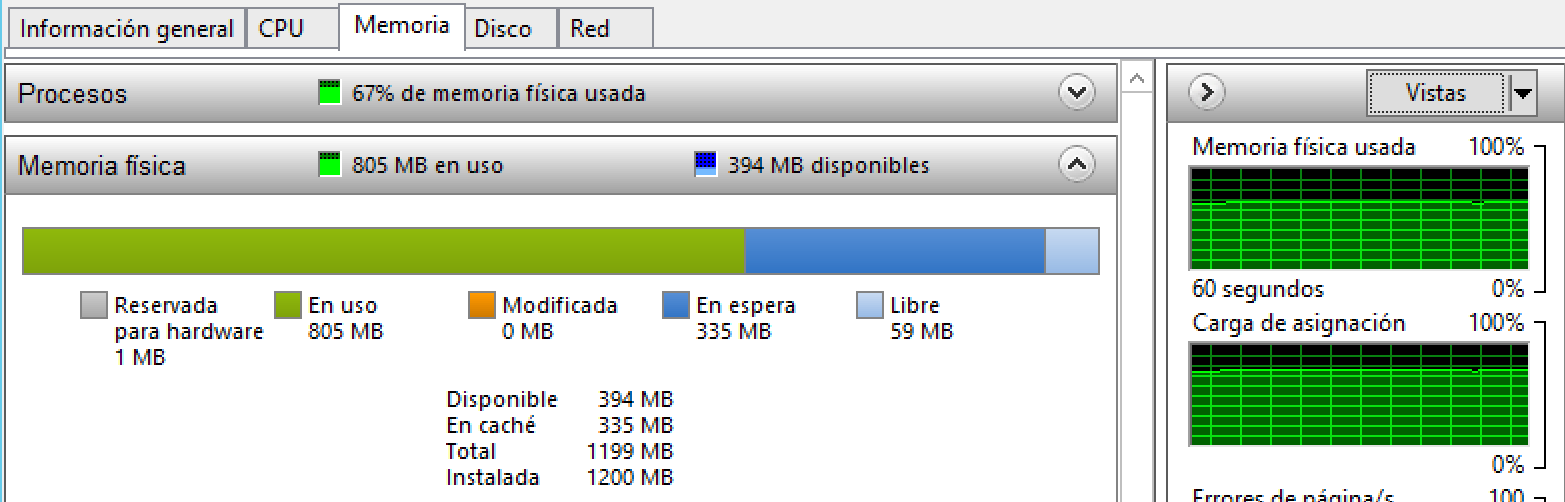
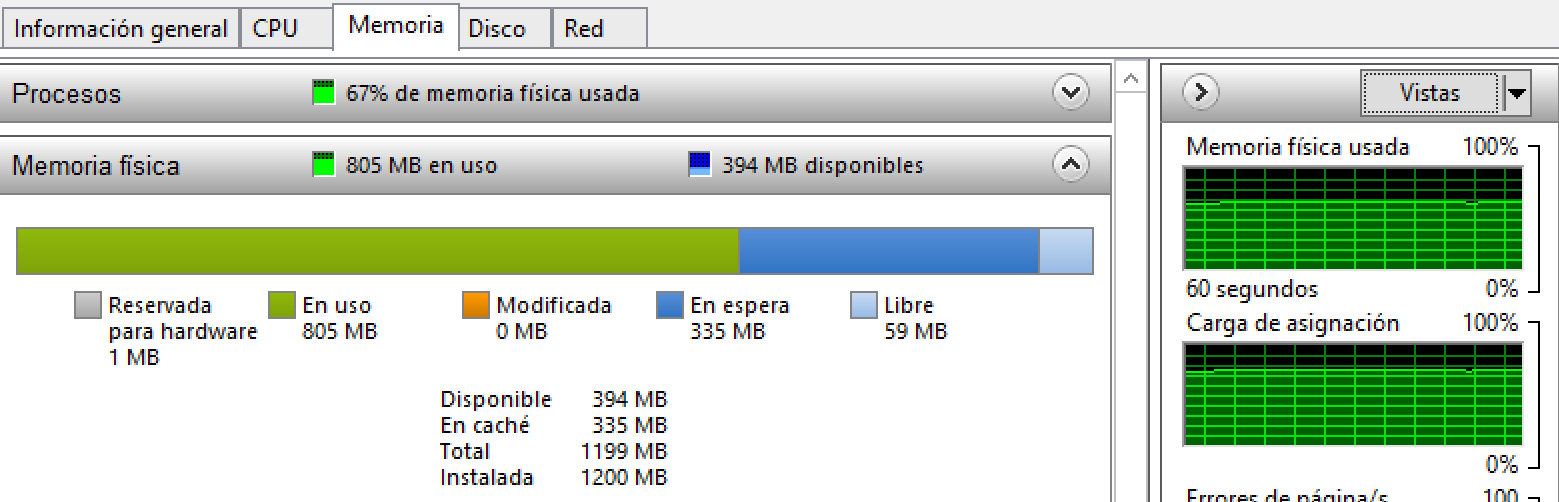
Optimize memory usage in laboratory design; updated RAM requirements and revised related documentation.

diff --git a/Cuerpo/05_diseno_del_laboratorio.tex b/Cuerpo/05_diseno_del_laboratorio.tex
@@ -209,11 +209,11 @@ Tras varias iteraciones se comprobó que era posible reducir significativamente 
         \rowcolor{blue!10}
         \textbf{Sistema} & \textbf{Memoria RAM}  \\
         \hline
-        Ubuntu Server 22.04 & 1.5 GB  \\
+        Ubuntu Server 22.04 & 1.2 GB  \\
         \hline
         DC01 (Windows Server 2012) & 1.2 GB  \\
         \hline
-        DEV01 (Windows 7) & 1.5 GB  \\
+        DEV01 (Windows 7) & 1 GB  \\
         \hline
     \end{tabular}
 
@@ -221,7 +221,7 @@ Tras varias iteraciones se comprobó que era posible reducir significativamente 
     \label{tab:optimizacion_memoria}
 \end{table}
 
-Estas pruebas permitieron reducir el consumo total de memoria de la infraestructura hasta aproximadamente 4.2 GB, lo que facilita la ejecución simultánea de todas las máquinas virtuales incluso en equipos con recursos limitados.
+Estas pruebas permitieron reducir el consumo total de memoria de la infraestructura hasta aproximadamente 3.4 GB, lo que facilita la ejecución simultánea de todas las máquinas virtuales incluso en equipos con recursos limitados.
 
 La reducción de recursos no afecta al comportamiento del laboratorio ni a la reproducibilidad de las cadenas de ataque implementadas, manteniendo el equilibrio entre realismo y accesibilidad que se persigue en este proyecto.
 
@@ -258,11 +258,11 @@ La reducción de recursos no afecta al comportamiento del laboratorio ni a la re
 
 Las capturas mostradas en la Figura~\ref{fig:optimizacion_memoria_lab} evidencian el consumo real de memoria de las tres máquinas virtuales tras completar el proceso de optimización. Los resultados obtenidos demuestran que tanto Windows Server 2012 como Windows 7 y Ubuntu Server mantienen una cantidad suficiente de memoria disponible para ejecutar los servicios necesarios del laboratorio.
 
-En el caso del controlador de dominio DC01, con únicamente 1.2 GB de memoria asignada, el sistema conserva aproximadamente 400 MB libres una vez iniciados Active Directory y el servicio DNS. De forma similar, la estación de trabajo DEV01 dispone de cerca de 900 MB disponibles con una asignación total de 1.5 GB, mientras que el servidor Ubuntu mantiene alrededor de 500 MB de memoria disponible tras el despliegue de Docker y del portal vulnerable.
+En el caso del controlador de dominio DC01, con únicamente 1.2 GB de memoria asignada, el sistema conserva aproximadamente 400 MB libres una vez iniciados Active Directory y el servicio DNS. De forma similar, la estación de trabajo DEV01 dispone de cerca de 470 MB disponibles con una asignación total de 1 GB, mientras que el servidor Ubuntu mantiene alrededor de 324 MB de memoria disponible tras el despliegue de Docker y del portal vulnerable.
 
 Estos resultados confirman que las recomendaciones de memoria propuestas por VMware Workstation pueden reducirse considerablemente para este escenario concreto sin comprometer la estabilidad de los servicios ni la reproducibilidad de las cadenas de ataque implementadas.
 
-La optimización realizada permite ejecutar simultáneamente toda la infraestructura utilizando aproximadamente 4.2 GB de memoria RAM, facilitando el despliegue del laboratorio en equipos domésticos o académicos con recursos limitados y contribuyendo a uno de los objetivos principales del proyecto: proporcionar un entorno de entrenamiento accesible sin renunciar al realismo del escenario.
+La optimización realizada permite ejecutar simultáneamente toda la infraestructura utilizando aproximadamente 3.4 GB de memoria RAM, facilitando el despliegue del laboratorio en equipos domésticos o académicos con recursos limitados y contribuyendo a uno de los objetivos principales del proyecto: proporcionar un entorno de entrenamiento accesible sin renunciar al realismo del escenario.
 
 Los valores de memoria finalmente adoptados fueron utilizados durante todas las pruebas de validación y explotación descritas en el Capítulo~\ref{sec:explotacion_del_laboratorio}, verificándose que no introducen limitaciones apreciables en el desarrollo de los distintos escenarios ofensivos implementados.
 